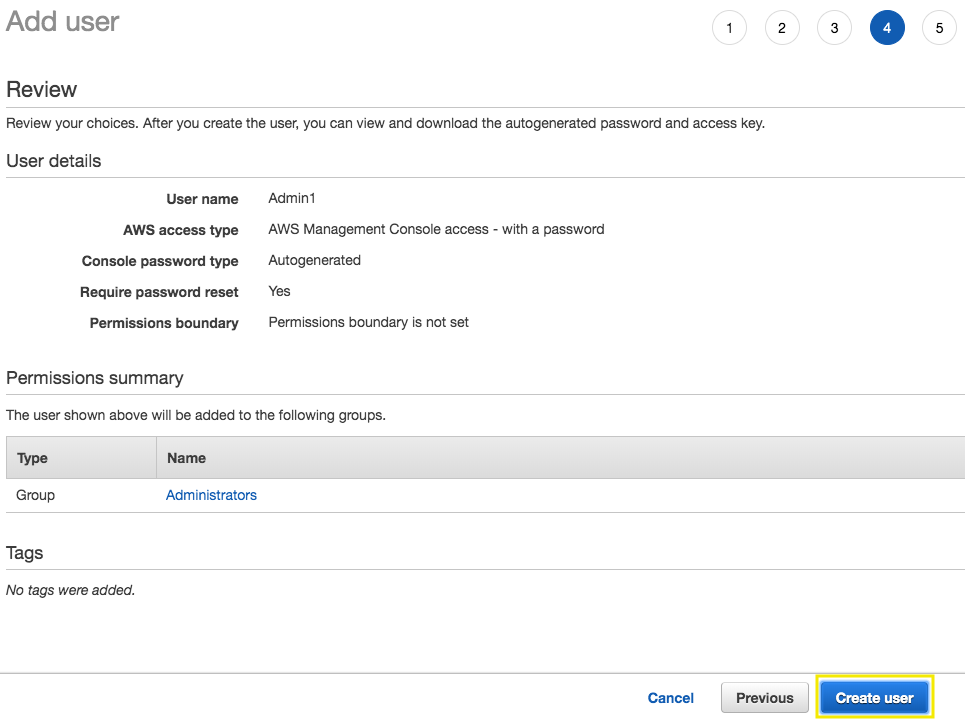
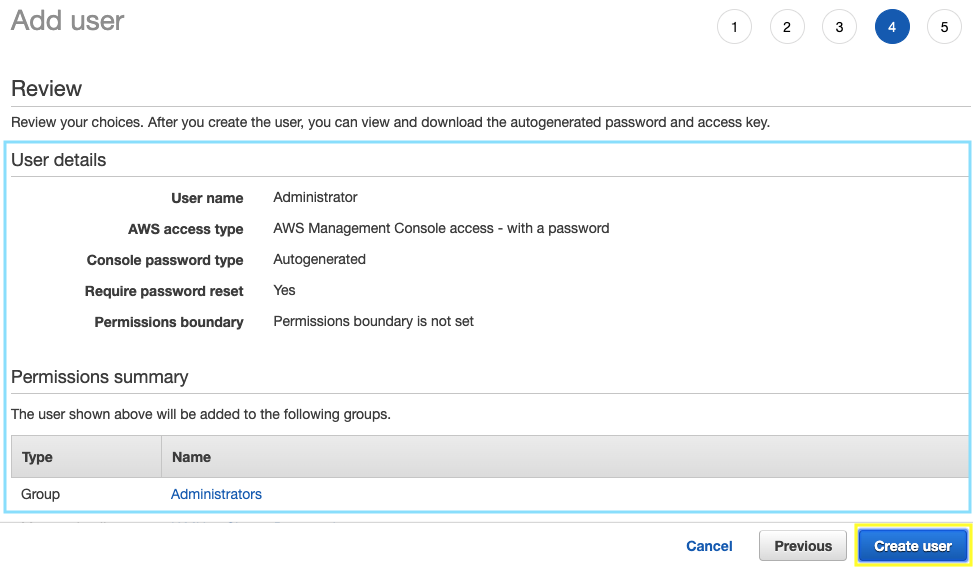
Mkdocs version and S3 update

diff --git a/docs/getting-started-with-amazon-s3.md b/docs/getting-started-with-amazon-s3.md
@@ -6,66 +6,49 @@
 
 ## 1. Create an Amazon S3 bucket
 
-1.1\.	Open the Amazon S3 console at https://console.aws.amazon.com/s3/.
+1.1\. Open the Amazon S3 console at https://console.aws.amazon.com/s3/.
 
-1.2\.	Choose **Create bucket**.
+1.2\. Choose **Create bucket**.
 
-1.3\.	In the **Bucket name** field, type a unique DNS-compliant name for your new bucket, for example `<your-name>-website`.
+![S3 Create](images/s3-create-bucket.png)
+
+1.3\. In the **Bucket name** field, type a unique DNS-compliant name for your new bucket, for example `<your-name>-website`.
 
 * The name must be unique across all existing bucket names in Amazon S3.
 * After you create the bucket you cannot change the name, so choose wisely.
 * Choose a bucket name that reflects the objects in the bucket because the bucket name is visible in the URL that points to the objects that you're going to put in your bucket.
 
-1.4\.	For Region, choose **US East (N. Virginia)** as the region where you want the bucket to reside.
+1.4\. For **Region**, choose **US East (N. Virginia)** as the region where you want the bucket to reside.
 
-1.5\.	Choose **Create**.
+1.5\. For **Bucket settings for Block Public Access**, uncheck **Block all public access**.
+
+1.6\. Validate the configurations, check **I acknowledge...**  and choose **Create bucket**.
 
 ![S3 Create](images/s3-create.png)
 
-## 2. Editing Public Access Settings for an S3 Bucket
-
-2.1\.	Open the Amazon S3 console at https://console.aws.amazon.com/s3/.
-
-2.2\.	In the **Bucket name** list, choose the name of the bucket that you created **`<your-name>-website`**.
-
-2.3\.	Choose **Permissions** and choose **Edit** to change the public access settings for the bucket.
-
-![S3 Permissions Edit](images/s3-permissions-edit.png)
-
-2.4\.	Uncheck the following options and Choose **Save**.
-
-* **Block all public access**
-
-    * **Block public access to buckets and objects granted through new access control lists (ACLs)**
-    * **Block public access to buckets and objects granted through any access control lists (ACLs)**
-
-![S3 Permissions](images/s3-permissions.png)
-
-2.5\.	When you're asked for confirmation, enter `confirm`. Then choose **Confirm** to save your changes.
-
-## 3. Create a Cloud9 instance to upload your static Website
+## 2. Create a Cloud9 instance to upload your static Website
 
 [AWS Cloud9](https://aws.amazon.com/cloud9/) is a cloud-based integrated development environment (IDE) that lets you write, run, and debug your code with just a browser. It combines the rich code editing features of an IDE such as code completion, hinting, and step-through debugging, with access to a full Linux server for running and storing code.
 
-3.1\. Open the AWS Cloud9 console at https://console.aws.amazon.com/cloud9/.
+2.1\. Open the AWS Cloud9 console at https://console.aws.amazon.com/cloud9/.
 
-3.2\. Click on **Create environment**.
+2.2\. Click on **Create environment**.
 
 ![Cloud9 Create environment](images/cloud9-create.png)
 
-3.3\. For the **Name** type `MyDevelopmentInstance`, and choose **Next step**.
+2.3\. For the **Name** type `MyDevelopmentInstance`, and choose **Next step**.
 
 ![Cloud9 name environment](images/cloud9-name.png)
 
-3.4\. For the **Environment settings** use the default values and choose **Next step**.
+2.4\. For the **Environment settings** use the default values and choose **Next step**.
 
-3.5\. Click on **Create environment**.
+2.5\. Click on **Create environment**.
 
-3.6\. Wait some seconds until your development environment is ready, you will see the following screen.
+2.6\. Wait some seconds until your development environment is ready, you will see the following screen.
 
 ![Cloud9 Env](images/cloud9-env.png)
 
-3.7\. Inside the bash terminal execute the following commands:
+2.7\. Inside the bash terminal execute the following commands:
 
 * Download static website from github.
 ```console
@@ -76,23 +59,25 @@ git clone https://github.com/aurbac/static-website.git
 aws s3 cp static-website/ s3://<your-name>-website/ --recursive --exclude ".git/*" --acl public-read
 ```
 
-## 4. Configure the S3 bucket for static website hosting
+2.8\. Open the Amazon S3 console at https://console.aws.amazon.com/s3/, open your Amazon S3 bucket, you will see the files uploaded.
 
-4.1\. Open the Amazon S3 console at https://console.aws.amazon.com/s3/.
+![S3 Files](images/s3-files.png)
 
-4.2\. In the **Bucket name** list, choose the name of the bucket that you created **`<your-name>-website`**.
+## 3. Configure the S3 bucket for static website hosting
 
-4.3\. Choose **Properties**.
+3.1\. Inside your Amazon S3 bucket, choose **Properties**.
 
-4.4\. Choose **Static website hosting**.
+![S3 Files](images/s3-properties.png)
+
+3.2\. Choose **Static website hosting**.
 
 ![S3 Website](images/s3-website.png)
 
-4.5\. Choose **Use this bucket to host a website** and for **Index document** type `index.html`, copy the **Endpoint** and click **Save**.
+3.3\. Choose **Use this bucket to host a website** and for **Index document** type `index.html`, copy the **Endpoint** and click **Save**.
 
 ![S3 Website Conf](images/s3-website-conf.png)
 
-4.6\. Open a new browser tab and browse the static website by entering the Endpoint copied. You should see a website that looks like the following:
+3.4\. Open a new browser tab and browse the static website by entering the Endpoint copied. You should see a website that looks like the following:
 
 ![S3 Website](images/s3-website-live.png)
 

diff --git a/docs/getting-started-with-iam.md b/docs/getting-started-with-iam.md
@@ -33,7 +33,7 @@ A user is associated with permanent credentials and has permissions based off of
 
 2.2\. In the navigation pane, choose **Users** and then choose **Add user**.
 
-2.3\. In the **User Name** box, type `Admin1` as the name of the user, for **Access type** select the check box **AWS Management Console access** and then click **Next: Permissions**.
+2.3\. In the **User Name** box, type `Administrator` as the name of the user, for **Access type** select the check box **AWS Management Console access** and then click **Next: Permissions**.
 
 ![IAM User Name](images/iam-user-name.png)
 
@@ -41,11 +41,13 @@ A user is associated with permanent credentials and has permissions based off of
 
 ![IAM User Select Group](images/iam-user-select-group.png)
 
-2.5\. Choose **Next: Review** to see all of the choices you made up to this point. When you are ready to proceed, choose **Create user**.
+2.5\. On the **Add Tags** page choose **Next: Review**.
+
+2.6\. On the **Review** page you will see all of the choices you made up to this point. When you are ready to proceed, choose **Create user**.
 
 ![IAM User Create](images/iam-user-create.png)
 
-2.6\. To save the credentials, choose **Download .csv** and then save the file to a safe location, and **Close**.
+2.7\. To save the credentials, choose **Download .csv** and then save the file to a safe location, and **Close**.
 
 ![IAM User Download](images/iam-user-download.png)
 
